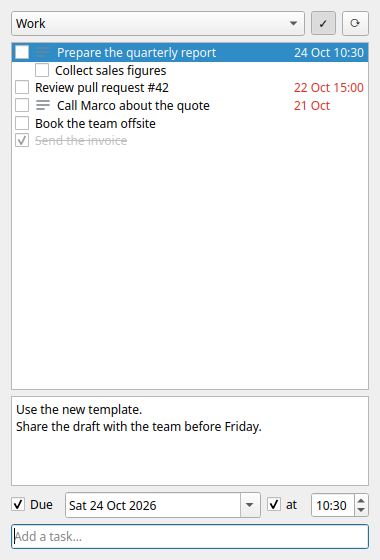
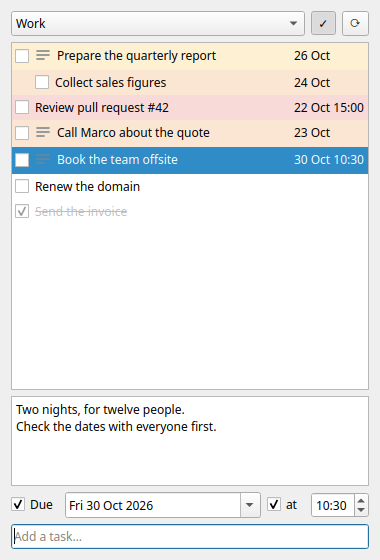
docs(readme): update the screenshot with the due date tints (#3)
Show the rows tinted red, orange and yellow by how close their due date
is, a subtask, a task without a due date and the details of a selected
task with a reminder. Rendered from sample tasks, not a real account.

Changed region(s): [[0.0289, 0.0607, 0.9842, 0.3946], [0.0289, 0.6982, 0.6947, 0.7893], [0.1737, 0.8804, 0.4053, 0.9107]]

diff --git a/README.md b/README.md
@@ -12,7 +12,7 @@ syncs with the official Google Tasks app on your phone. A command line interface
 terminal, and its JSON output makes your to-do list easy to manage from scripts and AI assistants.
 
 <p align="center">
-  <img src="docs/screenshot.png" alt="The Taskling popup: a checklist of tasks with due dates, details and a reminder" width="380">
+  <img src="docs/screenshot.png" alt="The Taskling popup: a checklist of tasks tinted by how close their due date is, with details and a reminder" width="380">
 </p>
 
 ## Why
